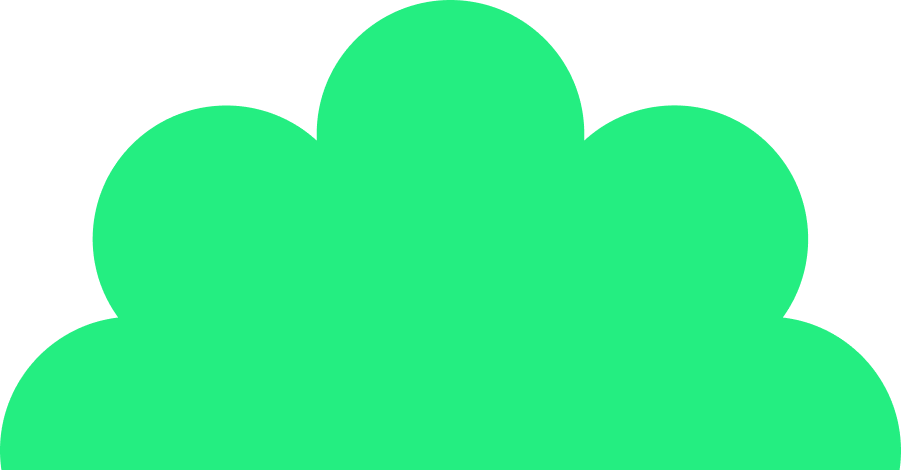
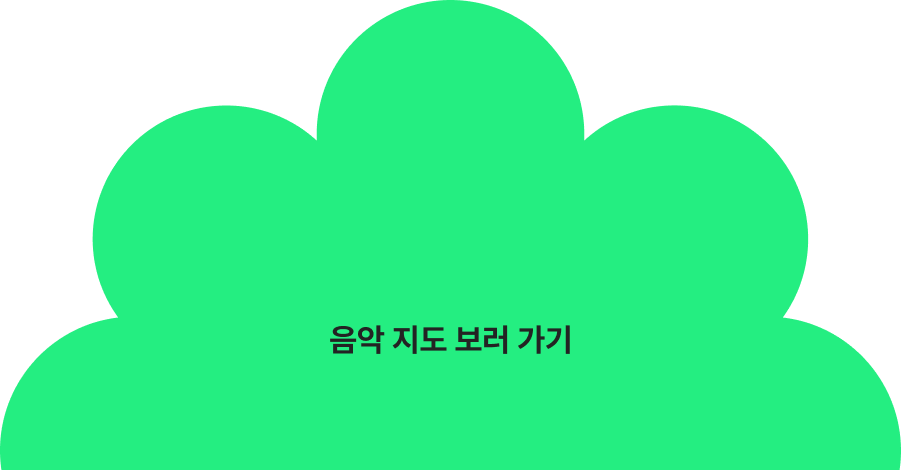
🐛 Fix : 메인페이지 bottom svg 텍스트 포함된 걸로 변경

Changed region(s): [[0.3418, 0.6851, 0.6526, 0.7745]]

diff --git a/src/pages/IntroducePage/Main.jsx b/src/pages/IntroducePage/Main.jsx
@@ -27,7 +27,6 @@ const Main = () => {
             src={main_bottom}
             alt="main_bottom"
           />
-          <BottomText>음악 지도 보러 가기</BottomText>
         </Bottom>
       </Wrapper>
     </>
@@ -79,33 +78,6 @@ const Bottom = styled.div`
       width: 70%;
       height: auto;
     }
-  }
-`;
-const BottomText = styled.div`
-  position: fixed;
-  left: 50%;
-  bottom: 4.5rem;
-  transform: translateX(-50%);
-  z-index: 3;
-  color: var(--light_black, #232323);
-  text-align: center;
-  font-size: 2rem;
-  font-style: normal;
-  font-weight: 700;
-  line-height: 40px; /* 125% */
-  cursor: pointer;
-  white-space: nowrap;
-  @media (max-width: 800px) {
-    font-size: 28px;
-    bottom: 4.5rem;
-  }
-  @media (max-width: 500px) {
-    font-size: 28px;
-    bottom: 4.5rem;
-  }
-  @media (max-width: 350px) {
-    font-size: 16px;
-    bottom: 2rem;
   }
 `;
 
